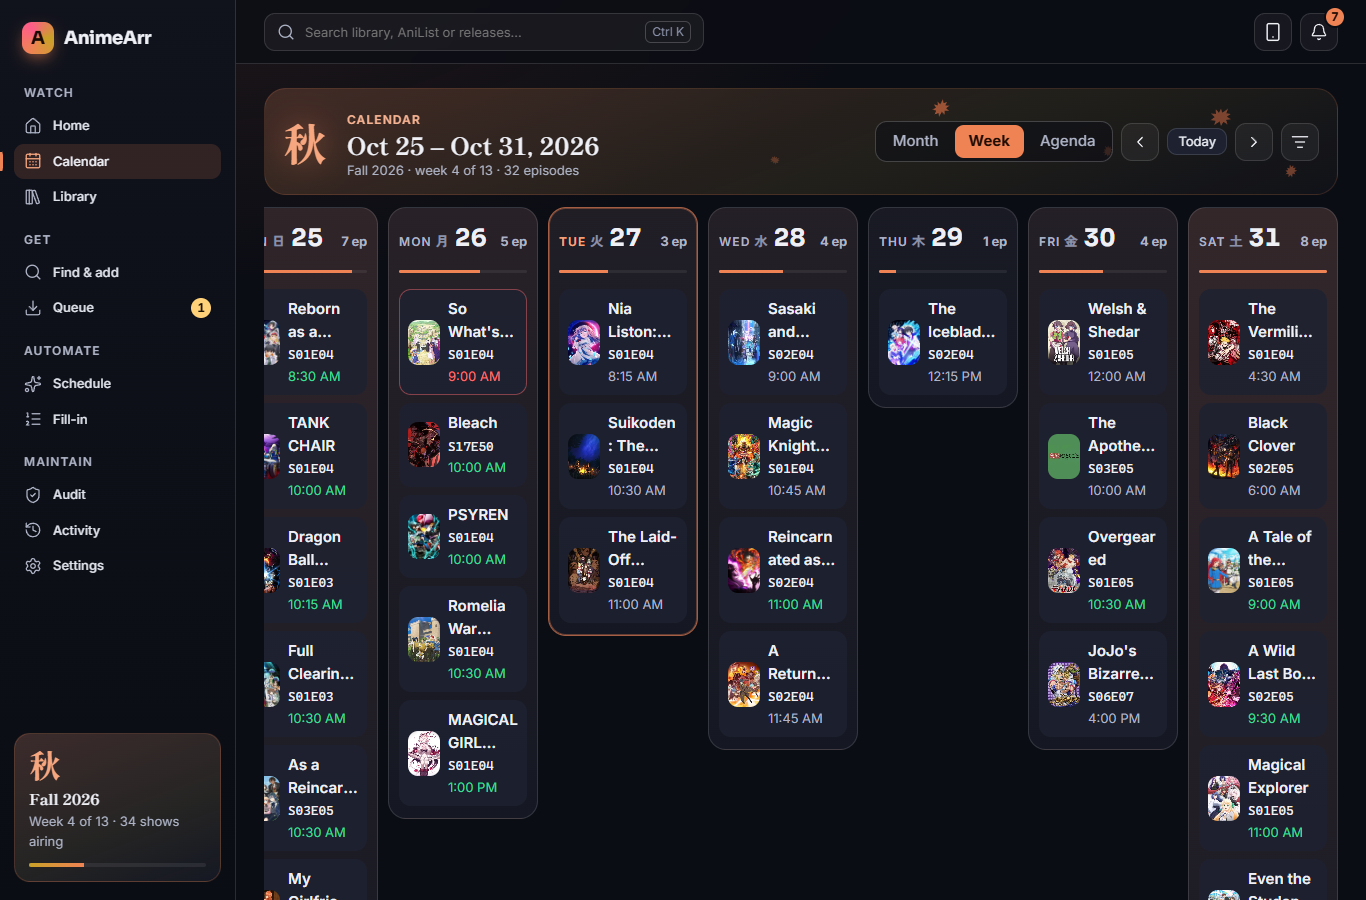
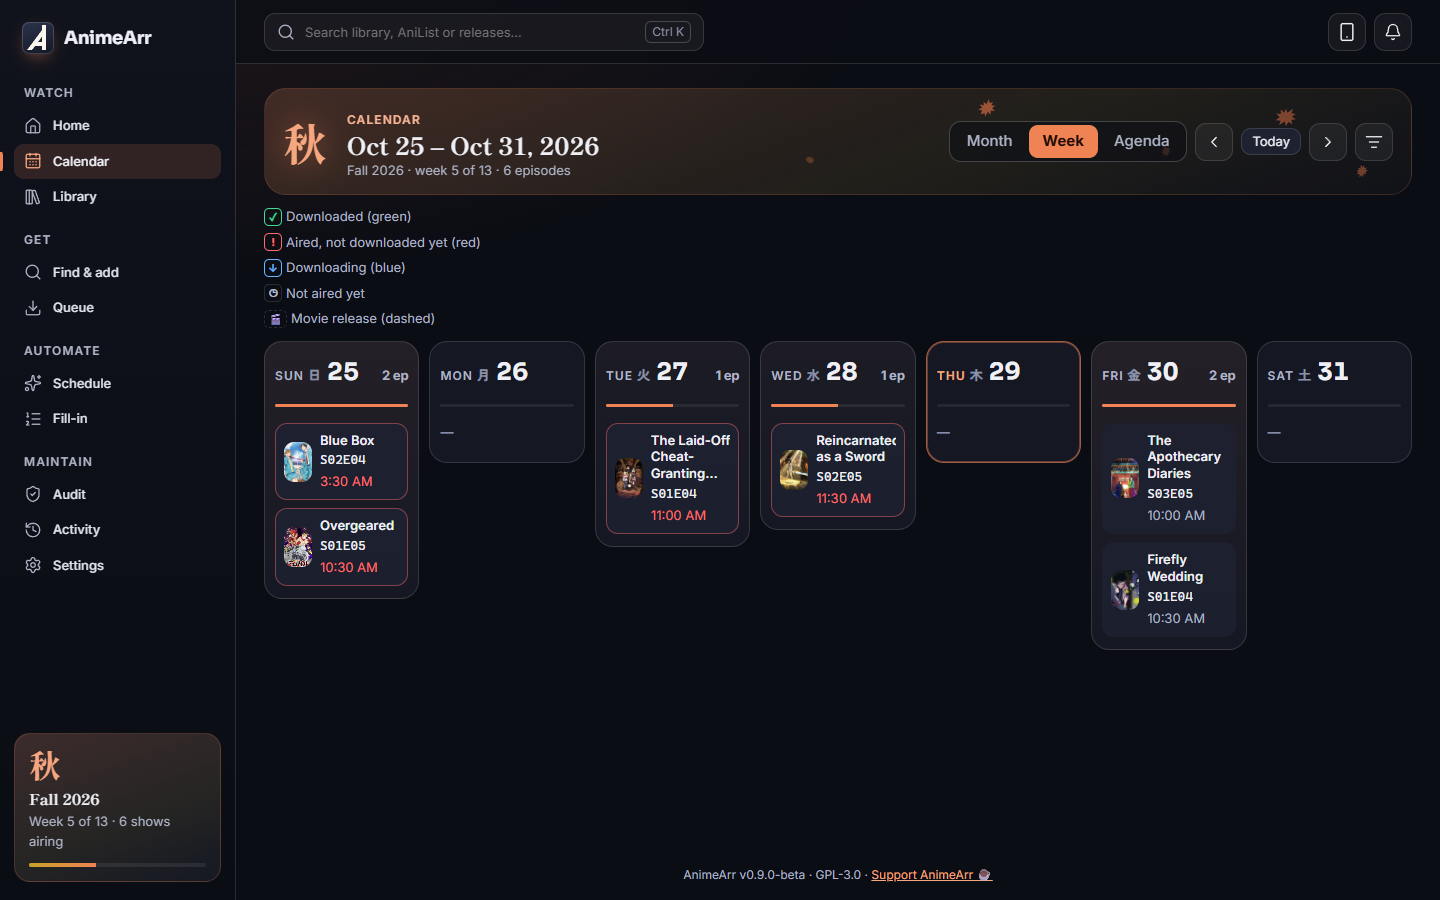
docs: crew repaints the README and snaps the new deck from a demo ship
README rebuilt as a landing page: centred light/dark wordmark, one-line
pitch, static shields.io badges (licence, version, ghcr.io, arch, Ko-fi),
"Why AnimeArr" grouped by find / check / fix / live with this week's
features (Trailer, Replace season tabs and quality labels, wrong-file
catching, dual-audio upgrades, the phone card, the new icon), a
screenshot gallery, compose / docker run / Unraid quick start, the
captain/morebooty first-run note with the limits of the home-network
check, FAQ, an honest limitations list (no re-audit of files imported
before takeover until 0.9.1), and a docs table. Download-client and
Blackhole details fold into <details>.

Screenshots: library, show, find-trailer, trailer, calendar and
phone-home were captured from a throwaway local instance (scratch config,
no services connected, shows added from AniList), so they carry the new
icon and no personal data. home.png and activity.png are unchanged and no
longer used by the README.

diff --git a/README.md b/README.md
@@ -1,84 +1,106 @@
-<h1>
+<p align="center">
   <picture>
     <source media="(prefers-color-scheme: dark)" srcset="docs/brand/animearr-wordmark-on-dark.svg" />
-    <img src="docs/brand/animearr-wordmark-on-light.svg" alt="AnimeArr" height="64" />
+    <img src="docs/brand/animearr-wordmark-on-light.svg" alt="AnimeArr" height="72" />
   </picture>
-</h1>
-
-<p>
-  <a href="https://ko-fi.com/moritranslates"><img src="https://ko-fi.com/img/githubbutton_sm.svg" alt="Support on Ko-fi"></a>
 </p>
 
-> **Beta (v0.9.0-beta).** It runs a real library every day, but it's young: expect rough edges, and keep backups. It
-> starts in **dry run** (it shows what it would grab without downloading anything) until you switch that off.
-
-**An anime-first library manager.** AnimeArr finds, checks and imports anime the way anime is actually released:
-fansub numbering, absolute episodes, BD batches, specials, creditless openings, dual audio and, above all, **subtitles
-in your language**. It works next to Sonarr, Radarr and Prowlarr, and can take over your anime from them when you're
-ready. Phone-friendly, seasonal, and a little bit extra.
-
-![Home](docs/screenshots/home.png)
-
-<p>
-  <img src="docs/screenshots/show.png" width="49%" alt="A show" />
-  <img src="docs/screenshots/calendar.png" width="49%" alt="Calendar" />
+<p align="center">
+  <b>The anime-first *arr.</b> Finds, checks and imports anime the way anime is actually released,<br />
+  and makes sure every file has full subtitles in your language before it reaches your library.
 </p>
 
-## What it does
+<p align="center">
+  <a href="LICENSE"><img src="https://img.shields.io/badge/license-GPL--3.0-blue" alt="License: GPL-3.0" /></a>
+  <a href="CHANGELOG.md"><img src="https://img.shields.io/badge/version-0.9.0--beta-d2561f" alt="Version 0.9.0-beta" /></a>
+  <a href="https://github.com/MoriTranslates/animearr/pkgs/container/animearr"><img src="https://img.shields.io/badge/docker-ghcr.io-2496ED?logo=docker&amp;logoColor=white" alt="Docker image on ghcr.io" /></a>
+  <img src="https://img.shields.io/badge/arch-amd64%20%7C%20arm64-555" alt="amd64 and arm64" />
+  <a href="https://ko-fi.com/moritranslates"><img src="https://img.shields.io/badge/Ko--fi-support-ff5e5b?logo=ko-fi&amp;logoColor=white" alt="Support on Ko-fi" /></a>
+</p>
 
+<p align="center">
+  <a href="#quick-start">Quick start</a> ·
+  <a href="#why-animearr">Why AnimeArr</a> ·
+  <a href="#screenshots">Screenshots</a> ·
+  <a href="#faq">FAQ</a> ·
+  <a href="#known-limitations-in-this-beta">Known limitations</a> ·
+  <a href="#docs">Docs</a>
+</p>
+
+> [!NOTE]
+> **Public beta (v0.9.0-beta).** It runs a real library every day, but it's young: expect rough edges and keep
+> backups. It starts in **practice mode** (dry run: it shows what it would download, and downloads nothing) until you
+> switch that off.
+
+![The library](docs/screenshots/library.png)
+
+## Why AnimeArr
+
+Sonarr is great at TV. Anime keeps breaking its assumptions: fansub numbering like "S6 - 01", absolute episodes,
+split cours, season packs called "(01-12)", specials, creditless openings, dual audio, and releases that turn out to
+have no English subtitles at all (or only signs). AnimeArr is built around those cases. It works **next to** Sonarr,
+Radarr and Prowlarr, and can take your anime over from them when you're ready.
+
+### Finds the right release
 - **Knows anime numbering.** AniList + AniDB + Anime-Lists mapping: "S6 - 01", absolute episodes, split cours, season
-  packs called "Season 1" or "(01-12)", per-show aliases and rules. No TheXEM needed.
-- **Checks before it imports.** Every download is probed with ffprobe: full subtitles in your language (not just signs),
-  the right audio for your profile (Sub, Dub, Dual or Either), not a sample. A release that fails is blocklisted and the
-  next one is tried; one that passes is imported and renamed.
-- **Explains every choice.** Search results, grabs and skips come with a plain-language "why", and every action is in
-  Activity with an undo where possible.
-- **Fixes what's already there.** Audit your library for files without your subtitle language, gaps and specials;
-  "Fix detection" for wrongly tagged tracks; **Replace season** swaps a bad season for a good pack, episode by episode,
-  only after each new file passes its check (the old ones go to a recycling bin).
-- **Plays nicely with your stack.** Prowlarr or direct indexers (Newznab, Torznab, Nyaa, SubsPlease, RSS), with a
-  circuit breaker for broken ones; SABnzbd, NZBGet, qBittorrent, Transmission, Deluge, rTorrent (see the
-  [download client support](#download-clients) table); Plex scans and "Watch in Plex"; Discord and ntfy notifications;
-  a migration path from Sonarr/Radarr.
-- **Smart batch grabs.** A 26-episode batch when you're missing 4: torrent clients that can skip files download only
-  those 4 (plus their subtitles and fonts); per season it decides between "only the missing episodes" and "replace the
-  whole season with one group" (same quality or better), and says why in plain words.
+  packs, per-show aliases and rules. No TheXEM needed.
+- **Ranks by what you watch.** Language profiles with Sub, Dub, Dual or Either; size presets; group consistency within
+  a season; burned-in and signs-only subtitles spotted.
+- **Smart batch grabs.** Missing 4 episodes of a 26-episode batch? Torrent clients that can skip files download only
+  those 4. Per season it decides between "just the missing ones" and "replace the whole season with one group".
+- **Explains itself.** Every result, grab and skip comes with a plain-language "why".
+- **▶ Trailer** <sup>new</sup>. Peek at a show's art style before adding it: the official trailer from AniList plays in
+  Find & add, the Add dialog and the show page, with an "Open in YouTube" link. Nothing is ever downloaded.
+
+### Checks before it imports
+- **Every download is probed with ffprobe**: full subtitles in your language (not just signs), the right audio for your
+  profile, not a sample. A release that fails is blocklisted and the next one is tried.
+- **Catches wrong files** <sup>new</sup>. A series batch posing as a movie, a release that fits a different movie better,
+  a dub without the original audio, subtitles in another language: refused before they replace anything. The
+  after-import check also looks at files Sonarr imports (report-only by default).
+- **Dual-audio upgrades** <sup>new</sup>. For shows you watch in Dual mode, sub-only episodes are upgraded when a proper
+  dual-audio release turns up (report-only by default; the import checks that both audio tracks are really there).
+
+### Fixes what's already there
+- **Replace season** <sup>new</sup>. Swap a messy season for one good pack. It opens on a **Season packs** tab (whole
+  season first, then upgrades over what you have), with **Single episodes** on their own tab, and labels each pack
+  against your current files: TV < WEB-DL < Blu-ray < remux, then resolution. Each new episode is checked before its
+  old file goes to the recycling bin.
+- **Audit and Fix detection.** Files without your subtitle language, gaps, specials, wrongly tagged tracks.
+- **Activity with undo.** Every action is logged in plain words, with an undo where possible.
+
+### Lives on your server (and your phone)
+- **Seasonal Home and calendar** with airing countdowns, Just arrived and Ready to binge.
+- **Phone app** <sup>new</sup>. Install it from the "Add to home screen" card on your phone (or the QR code in Settings);
+  it opens full screen, with the new mast-and-pennant icon.
+- **Plays nicely with your stack.** Prowlarr or direct indexers (Newznab, Torznab, Nyaa, SubsPlease, RSS) with a circuit
+  breaker for broken ones; SABnzbd, NZBGet, qBittorrent, Transmission, Deluge, rTorrent (see
+  [download clients](#download-clients)); Plex scans and "Watch in Plex"; Discord and ntfy; a guided migration from
+  Sonarr/Radarr.
 - **Looks after itself.** Stalled-download handling, clean-up after imports, a recycling bin with retention, nightly
-  backups, a seasonal calendar with airing countdowns, an installable phone app (scan the QR code in Settings).
+  backups.
 
-What it doesn't do yet is listed in [PARITY.md](PARITY.md) (honestly) and [BACKLOG.md](BACKLOG.md).
+## Screenshots
 
-## Download clients
+<table>
+  <tr>
+    <td width="50%"><img src="docs/screenshots/show.png" alt="A show page with the Trailer button" /><br /><sub>A show page: progress, watch mode and ▶ Trailer.</sub></td>
+    <td width="50%"><img src="docs/screenshots/find-trailer.png" alt="Find and add, with Trailer buttons" /><br /><sub>Find & add: AniList search with Add and ▶ Trailer.</sub></td>
+  </tr>
+  <tr>
+    <td width="50%"><img src="docs/screenshots/trailer.png" alt="A trailer playing in AnimeArr" /><br /><sub>The trailer plays in place. Nothing is downloaded.</sub></td>
+    <td width="50%"><img src="docs/screenshots/calendar.png" alt="The seasonal calendar" /><br /><sub>The seasonal calendar.</sub></td>
+  </tr>
+</table>
 
-| Client | Protocol | Add / status / progress | Category or label | Seeding & ratio | Remove (with data) | Partial batch downloads | Test | Wizard / Sonarr import |
-|---|---|---|---|---|---|---|---|---|
-| SABnzbd | Usenet | ✅ | category | n/a | ✅ (AnimeArr deletes the folder SABnzbd leaves behind) | — (whole batch; leftovers cleaned after import) | ✅ | ✅ / ✅ |
-| NZBGet | Usenet | ✅ | category | n/a | ✅ | — (whole batch) | ✅ | ✅ / ✅ |
-| qBittorrent | Torrent | ✅ | category | ✅ ratio + time | ✅ | ✅ | ✅ | ✅ / ✅ |
-| Transmission | Torrent | ✅ | label + sub-folder | ratio only | ✅ | ✅ | ✅ | ✅ / ✅ |
-| Deluge (2.x; 1.3 best effort) | Torrent | ✅ | Label plugin (optional) + sub-folder | ratio only | ✅ | ✅ | ✅ | ✅ / ✅ |
-| rTorrent / ruTorrent | Torrent | ✅ | d.custom1 label + sub-folder | ratio shown, no limit set | ✅ (AnimeArr deletes the data inside its download folders) | ✅ | ✅ | ✅ / ✅ |
-| Usenet Blackhole¹ | Usenet | drop .nzb / watch folder, no progress | — | n/a | watch file only; finished folder cleaned after import | — (whole batch) | folders checked | — / — |
-| Torrent Blackhole¹ | Torrent | drop .torrent (.magnet optional) / watch folder, no progress | — | — | watch file only; never touches your files | — (whole batch) | folders checked | — / — |
+<p align="center">
+  <img src="docs/screenshots/phone-home.png" width="300" alt="AnimeArr on a phone, with the Add to home screen card" /><br />
+  <sub>On a phone: the "Add to home screen" card.</sub>
+</p>
 
-Clients without partial downloads (and all Usenet clients) download the whole batch; the import takes only the wanted
-files and the rest is cleaned up after a confirmed import. The download-folder clean-up and seeding rules (Settings →
-Downloads) read qBittorrent and SABnzbd only for now.
+## Quick start
 
-¹ Blackhole is off by default, never offered by the setup wizard, and never picked while a real client of the same
-protocol is on unless its priority is better. It starts disabled until its folders pass Test (the completed folder
-must be one of the importer's source roots). What you lose with Blackhole:
-- no download progress, speed, ETA or seeders in the Queue (only "Waiting for download…");
-- no partial batch downloads: whole batches are downloaded (only the wanted files are imported);
-- stall and queue-health checks don't apply; only the timeout does (24 h by default), then the next release is tried;
-- AnimeArr can't pause or remove the download in your downloader, or see seeding and ratio; it never cleans up a
-  torrent's files (torrents are copied or hardlinked, never moved);
-- slower to notice finished downloads: a download counts as done when its size stays the same for about a minute;
-- downloads are matched by release name: one your downloader renames isn't found and needs a manual import;
-- Usenet: failed downloads and repair errors in your downloader aren't seen; AnimeArr only notices that nothing arrived;
-- Torrent: magnet-only releases are skipped unless "Save magnet links as .magnet files" is on.
-
-## Quick start (Docker)
+### Docker Compose
 
 ```yaml
 services:
@@ -97,23 +119,47 @@ services:
       - 8484:8484
 ```
 
-Then open `http://<server>:8484`, log in with **captain / morebooty**, and follow the setup wizard ("I'm new" or "I already use
-Sonarr/Radarr"). The full example is [docker-compose.yml](docker-compose.yml).
+The commented version is [docker-compose.yml](docker-compose.yml).
+
+### Docker run
+
+```bash
+docker run -d --name animearr -p 8484:8484 \
+  -e PUID=1000 -e PGID=1000 -e TZ=Etc/UTC \
+  -v /path/to/appdata/animearr:/config -v /path/to/data:/data \
+  ghcr.io/moritranslates/animearr:beta
+```
+
+### Unraid
+
+Use the template in [docker/unraid/animearr.xml](docker/unraid/animearr.xml) (PUID 99, PGID 100) and put `/config` on
+a cache-only appdata share.
+
+Then open `http://<server>:8484`, log in, and follow the setup wizard ("I'm new" or "I already use Sonarr/Radarr").
+
+> [!IMPORTANT]
+> **First login: captain / morebooty.** Every new install starts with this known default login. It works **only on your
+> home network until you change it**: logins with the default password from anywhere else (the internet, a reverse
+> proxy, a tunnel) are refused. The wizard's first step offers to change it ("Later" is fine), and a banner reminds you
+> until you do (Settings → Security). Installs that already have an account keep it.
+>
+> "Home network" is judged by the address a connection comes from (10.x, 192.168.x, private IPv6 including Tailscale,
+> so shared Tailscale nodes count too). Internet traffic that reaches AnimeArr *from* a LAN address looks local: a
+> router port-forward with NAT/masquerade, or a plain TCP forwarder (nginx `stream`, HAProxy tcp mode, frp, `ssh -R`,
+> socat). So **change the password on first run**, don't port-forward AnimeArr directly, and expose it only through an
+> HTTP reverse proxy (which adds `X-Forwarded-For`) or a VPN. Details in [SECURITY.md](SECURITY.md).
 
 **The paths matter.** AnimeArr checks and imports files itself, so it needs to see the downloads and the library at the
 same paths your download clients (and Sonarr/Radarr) use. One `/data` folder holding both downloads and media
-([TRaSH-guides style](https://trash-guides.info/File-and-Folder-Structure/)) lets imports be instant hardlinks.
+([TRaSH-guides style](https://trash-guides.info/File-and-Folder-Structure/)) lets imports be instant hardlinks. Keep
+`/config` on a local disk: SQLite databases can be damaged on SMB/NFS shares.
 
-**First login.** The default login is **captain / morebooty**. It works only on your home network until you change it:
-logins with the default password from anywhere else (the internet, a reverse proxy, a tunnel) are refused. The wizard's
-first step offers to change it ("Later" is fine), and a banner reminds you until you do (Settings → Security). Installs
-that already have an account keep it. Details in [SECURITY.md](SECURITY.md).
-
-### Platform notes
+<details>
+<summary><b>Platform notes and environment variables</b></summary>
 
 | | |
 |---|---|
-| **Unraid** | Use the template in [docker/unraid/animearr.xml](docker/unraid/animearr.xml) (PUID 99, PGID 100). Put `/config` on a cache-only appdata share. |
+| **Unraid** | Template in [docker/unraid/animearr.xml](docker/unraid/animearr.xml) (PUID 99, PGID 100). `/config` on a cache-only appdata share. |
 | **Synology** (Container Manager) | Create a project from the compose file. PUID is usually `1026`, PGID `100` (check with `id` over SSH). |
 | **TrueNAS SCALE** | Custom app or compose; the apps user is `568:568`. |
 | **Plain Docker / Linux** | The compose file as is; `id` shows your PUID/PGID. |
@@ -121,32 +167,118 @@ that already have an account keep it. Details in [SECURITY.md](SECURITY.md).
 | **Raspberry Pi / ARM** | The image is multi-arch (amd64 + arm64). |
 
 Environment: `PUID`, `PGID`, `UMASK` (default 002), `TZ`, `URL_BASE` (reverse proxy on a sub-path, e.g. `/animearr`),
-`TRUST_PROXY` (your proxy's IP/CIDR, so real client IPs are seen), `ANIMEARR_LOCAL_NETWORKS` (what counts as "home" for
-the optional no-password-at-home setting).
+`TRUST_PROXY` (your proxy's IP/CIDR, so real client IPs are seen), `ANIMEARR_LOCAL_NETWORKS` (what counts as "home"
+for the default login and the optional no-password-at-home setting).
 
-Keep `/config` on a local disk: SQLite databases can be damaged on SMB/NFS shares.
+</details>
 
-## Known limitations in the beta
+## Download clients
 
+| Client | Protocol | Add / status / progress | Category or label | Seeding & ratio | Remove (with data) | Partial batch downloads | Test | Wizard / Sonarr import |
+|---|---|---|---|---|---|---|---|---|
+| SABnzbd | Usenet | ✅ | category | n/a | ✅ (AnimeArr deletes the folder SABnzbd leaves behind) | — (whole batch; leftovers cleaned after import) | ✅ | ✅ / ✅ |
+| NZBGet | Usenet | ✅ | category | n/a | ✅ | — (whole batch) | ✅ | ✅ / ✅ |
+| qBittorrent | Torrent | ✅ | category | ✅ ratio + time | ✅ | ✅ | ✅ | ✅ / ✅ |
+| Transmission | Torrent | ✅ | label + sub-folder | ratio only | ✅ | ✅ | ✅ | ✅ / ✅ |
+| Deluge (2.x; 1.3 best effort) | Torrent | ✅ | Label plugin (optional) + sub-folder | ratio only | ✅ | ✅ | ✅ | ✅ / ✅ |
+| rTorrent / ruTorrent | Torrent | ✅ | d.custom1 label + sub-folder | ratio shown, no limit set | ✅ (AnimeArr deletes the data inside its download folders) | ✅ | ✅ | ✅ / ✅ |
+| Usenet Blackhole¹ | Usenet | drop .nzb / watch folder, no progress | — | n/a | watch file only; finished folder cleaned after import | — (whole batch) | folders checked | — / — |
+| Torrent Blackhole¹ | Torrent | drop .torrent (.magnet optional) / watch folder, no progress | — | — | watch file only; never touches your files | — (whole batch) | folders checked | — / — |
+
+Clients without partial downloads (and all Usenet clients) download the whole batch; the import takes only the wanted
+files and the rest is cleaned up after a confirmed import. The download-folder clean-up and seeding rules (Settings →
+Downloads) read qBittorrent and SABnzbd only for now.
+
+<details>
+<summary>¹ <b>Blackhole: what you lose</b></summary>
+
+Blackhole is off by default, never offered by the setup wizard, and never picked while a real client of the same
+protocol is on unless its priority is better. It starts disabled until its folders pass Test (the completed folder
+must be one of the importer's source roots). What you lose with Blackhole:
+- no download progress, speed, ETA or seeders in the Queue (only "Waiting for download…");
+- no partial batch downloads: whole batches are downloaded (only the wanted files are imported);
+- stall and queue-health checks don't apply; only the timeout does (24 h by default), then the next release is tried;
+- AnimeArr can't pause or remove the download in your downloader, or see seeding and ratio; it never cleans up a
+  torrent's files (torrents are copied or hardlinked, never moved);
+- slower to notice finished downloads: a download counts as done when its size stays the same for about a minute;
+- downloads are matched by release name: one your downloader renames isn't found and needs a manual import;
+- Usenet: failed downloads and repair errors in your downloader aren't seen; AnimeArr only notices that nothing arrived;
+- Torrent: magnet-only releases are skipped unless "Save magnet links as .magnet files" is on.
+
+</details>
+
+## FAQ
+
+**Do I need Sonarr?**
+No. AnimeArr can run next to Sonarr/Radarr (reading your existing library), take your anime over from them with a
+guided migration, or run on its own with shows added from Find & add.
+
+**Will it start downloading as soon as I connect things?**
+No. It starts in practice mode (dry run) and only shows what it would grab. You switch real downloads on when you're
+happy, for everything or per show.
+
+**Does it change my Sonarr or Radarr?**
+Reading them is read-only. Anything that would change them (such as unmonitoring a migrated show in Sonarr) asks first.
+
+**Why a default login instead of creating one?**
+So you can log in straight away, with a password everyone knows only working where it's meant to: captain / morebooty
+works from your home network only, and only until you change it. It's a first-run convenience, not protection: change
+it right away. See [SECURITY.md](SECURITY.md).
+
+**Can I put it on the internet?**
+Change the default password first, then use an HTTP reverse proxy with authentication or a VPN, and set `TRUST_PROXY`.
+Don't port-forward it directly or through a plain TCP forwarder: that traffic can look like it comes from home.
+
+**Does ▶ Trailer download anything?**
+No. It embeds the official trailer from YouTube (no-cookie) or Dailymotion and links out to it; only the video's id is
+stored.
+
+**Jellyfin, Emby, Overseerr, Bazarr?**
+Not yet: see the limitations below and [PARITY.md](PARITY.md).
+
+**What's with the ships and the crew?**
+A nautical theme and a crew voice in the commit history, as a light-hearted tribute to adventure anime. AnimeArr isn't
+affiliated with any anime, studio or publisher.
+
+## Known limitations in this beta
+
+- **Files imported before AnimeArr took over a show aren't re-audited yet.** Wrong-file checks run on new imports, so
+  an old file that was imported for the wrong show (say, a live-action drama with the same name) stays until you spot
+  it. A library audit that re-checks existing files is planned for 0.9.1.
 - No quality profiles/cutoffs, custom formats or must/must-not-contain words yet: choices come from your language
   profile, size preset and resolution.
 - No Sonarr-compatible API, so Overseerr/Jellyseerr, Bazarr, LunaSea or nzb360 can't talk to AnimeArr directly.
 - Jellyfin/Emby/Kodi aren't supported yet (Plex is). Notifications are Discord and ntfy.
 - An existing anime folder can't yet be imported without Sonarr (new users add shows one by one).
 - RAR archives aren't unpacked (7z/ZIP are). No blocklist page, log viewer or downloadable backups yet.
+- No "forgot password" reset yet: keep your new password somewhere safe.
+
+The full, honest list is in [PARITY.md](PARITY.md); the plan is in [BACKLOG.md](BACKLOG.md).
+
+## Docs
+
+| | |
+|---|---|
+| [CHANGELOG.md](CHANGELOG.md) | What's in each release |
+| [SECURITY.md](SECURITY.md) | The default login, hardening tips, reporting a vulnerability |
+| [PARITY.md](PARITY.md) | Feature-by-feature comparison with Sonarr/Radarr (done, partial or missing) |
+| [BACKLOG.md](BACKLOG.md) | The road to 1.0 and beyond |
+| [CONTRIBUTING.md](CONTRIBUTING.md) | Development setup and guidelines |
+| [CODE_OF_CONDUCT.md](CODE_OF_CONDUCT.md) | How we treat each other |
+| [docker-compose.yml](docker-compose.yml) · [Unraid template](docker/unraid/animearr.xml) | Install examples |
 
 ## How this was built
 
 AnimeArr was built with [Claude Code](https://claude.com/claude-code), directed and tested every day by an anime nerd
-with opinions about yellow subtitles. The AI wrote most of the code; the human decided
-what it should do, broke it on purpose, and said "make it pop" more often than strictly necessary.
+with opinions about yellow subtitles. The AI wrote most of the code; the human decided what it should do, broke it on
+purpose, and said "make it pop" more often than strictly necessary.
 
 The commit history is written in the voice of the overworked ship's crew. It's honest underneath: every commit message
 keeps the real technical description, and the project runs on boring safety rails:
 
-- ~280 automated tests (parser, numbering, ranking, the grab → download → verify → import pipeline, clean-up, auth);
+- 350+ automated tests (parser, numbering, ranking, the grab → download → verify → import pipeline, clean-up, auth);
 - independent code, security, accessibility and UX review rounds before the release;
-- a dry-run mode, confirmations for anything that deletes, an undo log, and a recycling bin;
+- a practice mode, confirmations for anything that deletes, an undo log, and a recycling bin;
 - a pre-commit scan for secrets and personal data.
 
 If you find something the robots and the human both missed, please open an issue.
@@ -163,13 +295,14 @@ See [CONTRIBUTING.md](CONTRIBUTING.md).
 
 ## Reporting bugs and security issues
 
-Bugs and ideas: GitHub issues (the templates ask for what helps). Security: see [SECURITY.md](SECURITY.md) and please
-don't open a public issue.
+Bugs and ideas: [GitHub issues](https://github.com/MoriTranslates/animearr/issues) (the templates ask for what helps).
+Security: see [SECURITY.md](SECURITY.md) and please don't open a public issue.
 
 ## Licence
 
 GPL-3.0. See [LICENSE](LICENSE) and [NOTICE](NOTICE). Parts are ported from Sonarr (GPL-3.0); thank you to the
-Sonarr/Radarr/Prowlarr developers, whose work this stands on.
+Sonarr/Radarr/Prowlarr developers, whose work this stands on. AnimeArr is an independent project, not affiliated with
+Sonarr, Radarr or Prowlarr. Show artwork in the screenshots comes from AniList and belongs to its owners.
 
 ## Support
 
